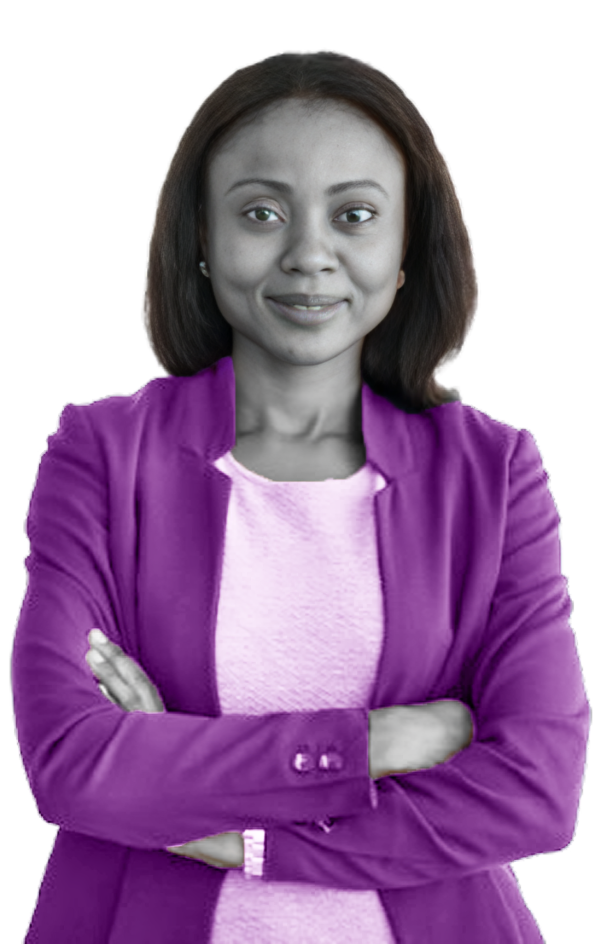
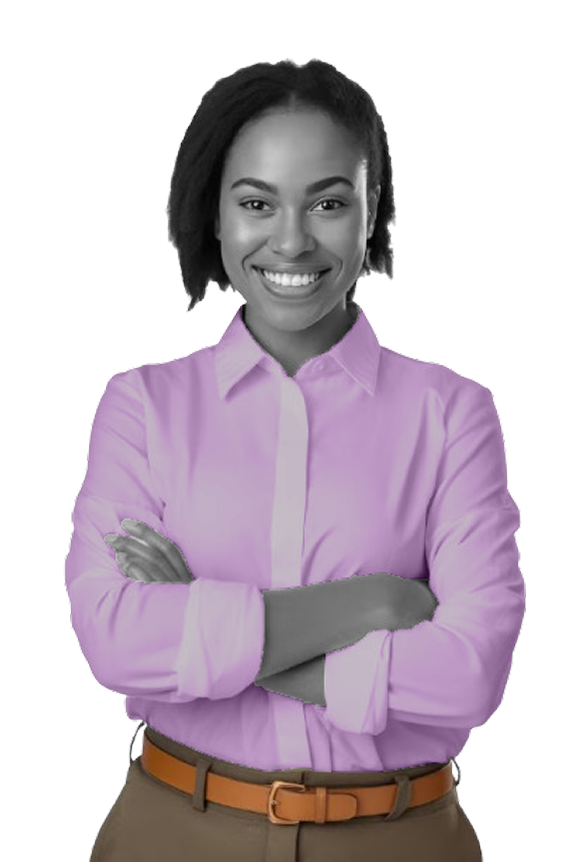
add testemunhals

diff --git a/web/Onda_branca/src/app/layout/services/services.html b/web/Onda_branca/src/app/layout/services/services.html
@@ -5,94 +5,33 @@
     </div>
 </div>
 
-<div class="uk-container uk-margin-large-bottom">
+<div class="uk-container ">
     <div uk-slider="autoplay: true" class=" uk-position-relative uk-visible-toggle uk-darklight" tabindex="-1">
         <div class="uk-slider-container uk-padding-medium">
-            <div class="uk-slider-items uk-child-width-1-5@l uk-child-width-1-3@s ">
-                <div>
+            <div class="uk-slider-items uk-child-width-1-5@l uk-grid-match uk-child-width-1-3@s ">
+                <div *ngFor="let service of serv">
                     <div class="uk-child-width-1-2@l uk-flex uk-grid-match uk-grid-small uk-padding-small" style="border: solid rgba(148, 148, 148, 0.388) 1px; border-radius: 20px; padding-left: 0; padding-right: 0; margin-right: 20px !important;">
                         <div>
-                            <img src="imagens/p7.png" alt="p7" style="border-radius: 10px;">
+                            <img [src]="service.image.url" [alt]="service.name" style="border-radius: 10px;">
                         </div>
                         <div>
                             <a href="" style="color: #094268;">
-                                <span style="font-size: 12px; font-weight: 400;">Treinamento</span><br>
-                                <span class="texto-com-reticencias">{{ curso }}</span>
+                                <span style="font-size: 12px; font-weight: 400;" class="type">{{ service.type }}</span><br>
+                                <span class="texto-com-reticencias">{{ service.name }}</span>
                             </a>
                         </div>
                     </div>
                 </div>
-                <div>
-                    <div class="uk-child-width-1-2@l uk-flex uk-grid-match uk-grid-small uk-padding-small" style="border: solid rgba(148, 148, 148, 0.388) 1px; border-radius: 20px; padding-left: 0; padding-right: 0; margin-right: 20px !important;">
-                        <div>
-                            <img src="imagens/p7.png" alt="p7" style="border-radius: 10px;">
-                        </div>
-                        <div>
-                            <a href="" style="color: #094268;">
-                                <span style="font-size: 12px; font-weight: 400;">Treinamento</span><br>
-                                <span class="texto-com-reticencias">{{ curso }}</span>
-                            </a>
-                        </div>
-                    </div>
-                </div>
-                <div>
-                    <div class="uk-child-width-1-2@l uk-flex uk-grid-match uk-grid-small uk-padding-small" style="border: solid rgba(148, 148, 148, 0.388) 1px; border-radius: 20px; padding-left: 0; padding-right: 0; margin-right: 20px !important;">
-                        <div>
-                            <img src="imagens/p7.png" alt="p7" style="border-radius: 10px;">
-                        </div>
-                        <div>
-                            <a href="" style="color: #094268;">
-                                <span style="font-size: 12px; font-weight: 400;">Treinamento</span><br>
-                                <span class="texto-com-reticencias">{{ curso }}</span>
-                            </a>
-                        </div>
-                    </div>
-                </div>
-                <div>
-                    <div class="uk-child-width-1-2@l uk-flex uk-grid-match uk-grid-small uk-padding-small" style="border: solid rgba(148, 148, 148, 0.388) 1px; border-radius: 20px; padding-left: 0; padding-right: 0; margin-right: 20px !important;">
-                        <div>
-                            <img src="imagens/p7.png" alt="p7" style="border-radius: 10px;">
-                        </div>
-                        <div>
-                            <a href="" style="color: #094268;">
-                                <span style="font-size: 12px; font-weight: 400;">Treinamento</span><br>
-                                <span class="texto-com-reticencias">{{ curso }}</span>
-                            </a>
-                        </div>
-                    </div>
-                </div>
-                <div>
-                    <div class="uk-child-width-1-2@l uk-flex uk-grid-match uk-grid-small uk-padding-small" style="border: solid rgba(148, 148, 148, 0.388) 1px; border-radius: 20px; padding-left: 0; padding-right: 0; margin-right: 20px !important;">
-                        <div>
-                            <img src="imagens/p7.png" alt="p7" style="border-radius: 10px;">
-                        </div>
-                        <div>
-                            <a href="" style="color: #094268;">
-                                <span style="font-size: 12px; font-weight: 400;">Treinamento</span><br>
-                                <span class="texto-com-reticencias">{{ curso }}</span>
-                            </a>
-                        </div>
-                    </div>
-                </div>
-                <div>
-                    <div class="uk-child-width-1-2@l uk-flex uk-grid-match uk-grid-small uk-padding-small" style="border: solid rgba(148, 148, 148, 0.388) 1px; border-radius: 20px; padding-left: 0; padding-right: 0; margin-right: 20px !important;">
-                        <div>
-                            <img src="imagens/p7.png" alt="p7" style="border-radius: 10px;">
-                        </div>
-                        <div>
-                            <a href="" style="columns: #094268;">
-                                <span style="font-size: 12px; font-weight: 400;">Treinamento</span><br>
-                                <span class="texto-com-reticencias">{{ curso }}</span>
-                            </a>
-                        </div>
-                    </div>
-                </div>
-
             </div>
-            <div >
-                <a class="uk-position-center-left-out uk-position-small" href uk-slidenav-previous uk-slider-item="previous"></a>
-                <a class="uk-position-center-right-out uk-position-small" style="color: #072132;" href uk-slidenav-next uk-slider-item="next"></a>
-            </div>
+            <div class="uk-visible@m">
+                        <a class="uk-position-center-left-out uk-position-small" href uk-slidenav-previous uk-slider-item="previous"></a>
+                        <a class="uk-position-center-right-out uk-position-small" style="color: #072132;" href uk-slidenav-next uk-slider-item="next"></a>
+                    </div>
+                    
+                    <div class="uk-hidden@m">
+                        <a class="uk-position-center-left uk-position-small" href uk-slidenav-previous uk-slider-item="previous"></a>
+                        <a class="uk-position-center-right uk-position-small" style="color: #072132;" href uk-slidenav-next uk-slider-item="next"></a>
+                    </div>
         </div>
     </div>
 </div>

diff --git a/web/Onda_branca/src/app/layout/testemunhos/testemunhos.html b/web/Onda_branca/src/app/layout/testemunhos/testemunhos.html
@@ -1,1 +1,40 @@
-<p>testemunhos works!</p>
+<div class="uk-container uk-margin-medium-top">
+
+    <!--Testmunhos-->
+    <div class="uk-margin-large-bottom">
+        <div class="uk-child-width-1-2@l uk-grid">
+            <div class="uk-width-auto@l" style="width: 420px;">
+                <h2 style="font-size: 30px; color: #00A6FB; font-weight: bold; margin: 0;" class="title uk-margin-small-bottom">Em suas próprias palavras</h2>
+                <p style="font-size: 16px; color: #094268;" class="destaque">Ouça depoimentos de pessoas e organizações <br> que  se transformaram com nossa ajuda</p>
+            </div>
+            <div class="uk-width-expand@l">
+                <div uk-slider class=" uk-position-relative uk-visible-toggle uk-darklight" tabindex="-1">
+                    <div class="uk-slider-container uk-padding-small ">
+                        <div class="uk-slider-items uk-child-width-1-2@l uk-child-width-1-2@s uk-grid-large">
+                            <div *ngFor="let teacher of teachers" class="uk-padding-remove-left">
+                                <div class="uk-child-width-1-2@l uk-flex uk-grid-match" style=" border-radius: 20px; box-sizing: border-box; overflow: hidden; border: solid #c7c7c7 1px; margin-right: 10px; width: 350px;">
+                                    <div >
+                                        <img [src]="teacher.image.url"  alt="Teacher photo">
+                                    </div>
+                                    <div class="uk-card uk-padding-small">
+                                            <h3  style="font-size: 12px; font-weight: bold; color: #094268;" class="uk-margin-remove">{{teacher.first_name}} {{teacher.last_name}}</h3>
+                                            <span style="font-size: 0.75rem; color: #094268;" class="uk-margin-small-bottom">{{teacher.position}}</span>
+                                            <p class="uk-margin-remove" style="font-size: 10px;"><span style="font-size: 30px; color: #094268; position: absolute; top: 48px; left: 1px;">"</span> Lorem ipsum dolor sit amet consectetur adipisicing elit. Sapiente omnis ex beatae corrupti deserunt accusamus deleniti <span style="font-size: 30px; color: #094268; position: absolute; bottom: 5px; right: 20px;">"</span></p>
+                                    </div>
+                                </div>
+                            </div>
+                        </div>
+                        <div class="uk-visible@m">
+                            <a class="uk-position-center-left-out uk-position-small" href uk-slidenav-previous uk-slider-item="previous"></a>
+                            <a class="uk-position-center-right-out uk-position-small" style="color: #072132;" href uk-slidenav-next uk-slider-item="next"></a>
+                        </div>
+                    
+                        <div class="uk-hidden@m">
+                            <a class="uk-position-center-left uk-position-small" href uk-slidenav-previous uk-slider-item="previous"></a>
+                            <a class="uk-position-center-right uk-position-small" style="color: #072132;" href uk-slidenav-next uk-slider-item="next"></a>
+                        </div>
+                    </div>
+                </div>
+            </div>
+        </div>
+</div>

diff --git a/web/Onda_branca/src/app/layout/about/about.html b/web/Onda_branca/src/app/layout/about/about.html
@@ -25,16 +25,16 @@
             <div class="uk-width-expand@l">
                 <div uk-slider="autoplay: true" class=" uk-position-relative uk-visible-toggle uk-darklight" tabindex="-1">
                     <div class="uk-slider-container uk-padding-small ">
-                        <div class="uk-slider-items uk-child-width-1-3@l uk-child-width-1-2@m uk-child-width-1-1@s uk-grid-small">
+                        <div class="uk-slider-items uk-child-width-1-3@l uk-child-width-1-3@s uk-grid-small">
                         <div *ngFor="let teacher of teachers">
-                            <div class="uk-child-width-1-2 uk-flex" style="border-radius: 20px; border: solid #c7c7c7 1px;">
+                            <div class="uk-child-width-1-2@l uk-flex uk-grid-match uk-grid-small" style=" border-radius: 20px; box-sizing: border-box; overflow: hidden; border: solid #c7c7c7 1px; margin-right: 10px;">
                                 <div>
-                                    <img [src]="teacher.image.url" alt="Teacher photo">
+                                    <img [src]="teacher.image.url"  alt="Teacher photo">
                                 </div>
                                 <div>
                                     <div class="uk-margin-small-top">
-                                        <h3 style="font-size: 12px; font-weight: bold; color: #00A6FB;" class="uk-margin-small-bottom">{{teacher.first_name}} {{teacher.last_name}}</h3>
-                                        <span style="font-size: 12px; color: #0E4363;">{{teacher.position}}</span>
+                                        <h3 style="font-size: 12px; font-weight: bold; color: #094268;" class="uk-margin-small-bottom">{{teacher.first_name}} {{teacher.last_name}}</h3>
+                                        <span style="font-size: 0.75rem; color: #094268;">{{teacher.position}}</span>
                                     </div>
                                 </div>
                             </div>
@@ -49,7 +49,7 @@
                         <a class="uk-position-center-left uk-position-small" href uk-slidenav-previous uk-slider-item="previous"></a>
                         <a class="uk-position-center-right uk-position-small" style="color: #072132;" href uk-slidenav-next uk-slider-item="next"></a>
                     </div>
-                    </div>
+                </div>
                 </div>
                 
             </div>

diff --git a/web/Onda_branca/src/app/layout/testemunhos/testemunhos.ts b/web/Onda_branca/src/app/layout/testemunhos/testemunhos.ts
@@ -1,11 +1,30 @@
+import { CommonModule } from '@angular/common';
 import { Component } from '@angular/core';
+import { Teacher } from '../../services/teacher';
+import { Teachers } from '../../interfaces';
 
 @Component({
   selector: 'app-testemunhos',
-  imports: [],
+  imports: [CommonModule],
   templateUrl: './testemunhos.html',
   styleUrl: './testemunhos.css'
 })
 export class Testemunhos {
-
+  teachers: Teachers[] = []
+  
+    constructor(private teacherServices: Teacher){}
+  
+    ngOnInit(): void {
+      //Called after the constructor, initializing input properties, and the first call to ngOnChanges.
+      //Add 'implements OnInit' to the class.
+  
+      this.teacherServices.getAllTeachers().subscribe({
+        next: (res) => {
+          this.teachers = res;
+        },
+        error: (err) =>{
+          console.error(err)
+        }
+      })
+    }
 }

diff --git a/web/Onda_branca/src/app/layout/services/services.css b/web/Onda_branca/src/app/layout/services/services.css
@@ -9,12 +9,30 @@
   word-break: break-word; /* Quebra palavras longas */
   max-width: 100%; /* Garante que respeite o container pai */
   line-height: 1.2; /* Ajuste o espaçamento entre linhas */
-  font-size: 18px;
+  font-size: 16px;
   font-weight: 600;
 }
+
+.uk-slidenav-previous,
+.uk-slidenav-next {
+  z-index: 1000;
+  color: #072132 !important; /* ou #fff para fundo escuro */
+}
+
+.uk-position-center-left-out, .uk-position-center-right-out {
+    color: #9A74A1 !important;
+}
+
 @media (max-width: 760px) {
   .uk-grid > div {
     padding: 10px;
     width: 100%;
+  }
+
+  .type{
+    font-size: 1rem !important;
+  }
+  .texto-com-reticencias{
+    font-size: 1.5rem !important;
   }
 }

diff --git a/web/Onda_branca/src/app/layout/services/services.ts b/web/Onda_branca/src/app/layout/services/services.ts
@@ -1,11 +1,27 @@
 import { Component } from '@angular/core';
+import { Service } from '../../interfaces';
+import { Servicos } from '../../services/servicos';
+import { CommonModule } from '@angular/common';
 
 @Component({
   selector: 'app-services',
-  imports: [],
+  imports: [CommonModule],
   templateUrl: './services.html',
   styleUrl: './services.css'
 })
 export class Services {
-  curso = "Treinamento p7 "
+ serv : Service[] = []
+ 
+ constructor(private ser: Servicos ){}
+
+ ngOnInit(): void {
+  this.ser.getAllServices().subscribe({
+      next: (res) => {
+        this.serv = res;
+      },
+      error: (err) =>{
+        console.error(err)
+      }
+    })
+ }
 }

diff --git a/web/Onda_branca/src/app/services/servicos.ts b/web/Onda_branca/src/app/services/servicos.ts
@@ -1,0 +1,20 @@
+import { HttpClient } from '@angular/common/http';
+import { Injectable } from '@angular/core';
+import { map, Observable } from 'rxjs';
+
+import { Service } from '../interfaces';
+
+@Injectable({
+  providedIn: 'root'
+})
+export class Servicos {
+  private urls = "http://localhost:8080/v1/services/get_all_services"
+
+  constructor(private http: HttpClient) { }
+
+  getAllServices(): Observable<Service[]> {
+    return this.http.get<{ data : Service[] }>(this.urls).pipe(
+      map(res => res.data)
+    );
+  }
+}

diff --git a/web/Onda_branca/src/app/layout/about/about.css b/web/Onda_branca/src/app/layout/about/about.css
@@ -19,22 +19,8 @@ button:hover{
 
 
 @media (max-width: 768px) {
-  .uk-slider-items {
-    padding-left: 1rem;
-    padding-right: 1rem;
-  }
-
   .title{
     margin-top: 10px !important;
-  }
-
-  .uk-slider-items > div {
-    text-align: center;
-    display: block;
-  }
-
-  .uk-slider-items img {
-    margin: 0 auto;
   }
 
   .destaque{
@@ -42,5 +28,12 @@ button:hover{
   }
   .title{
     font-size: 23px !important;
+  }
+
+  span{
+    font-size: 1rem !important;
+  }
+  h3{
+    font-size: 1.5rem !important;
   }
 }

diff --git a/web/Onda_branca/src/app/interfaces.ts b/web/Onda_branca/src/app/interfaces.ts
@@ -1,0 +1,25 @@
+export interface Teachers {
+  id: number;
+  first_name: string;
+  last_name: string;
+  position: string;
+  image: {
+    url: string;
+  };
+  created_at: string;
+  updated_at: string;
+}
+
+export interface Service {
+  id: number;
+  type: string;
+  name: string;
+  image: {
+    url: string;
+  };
+  modules?: string[];  // Opcional devido ao omitempty
+  start?: string;      // Opcional
+  end?: string;        // Opcional
+  created_at: string;
+  updated_at: string;
+}

diff --git a/web/Onda_branca/src/app/components/home/home.ts b/web/Onda_branca/src/app/components/home/home.ts
@@ -3,10 +3,11 @@ import { Navbar } from "../navbar/navbar";
 import { Slides } from "../slides/slides";
 import { About } from "../../layout/about/about";
 import { Services } from "../../layout/services/services";
+import { Testemunhos } from "../../layout/testemunhos/testemunhos";
 
 @Component({
   selector: 'app-home',
-  imports: [Navbar, Slides, About, Services],
+  imports: [Navbar, Slides, About, Services, Testemunhos],
   templateUrl: './home.html',
   styleUrl: './home.css'
 })

diff --git a/web/Onda_branca/src/app/components/slides/slides.html b/web/Onda_branca/src/app/components/slides/slides.html
@@ -12,7 +12,7 @@
               </div>
             </div>
           <div>
-            <img src="imagens/mulher_capa.webp" class="uk-align-center" alt="capa feminina" uk-scrollspy="cls: uk-animation-slide-right; delay:150; repeat: true">
+            <img src="imagens/mulher_capa.png" class="uk-align-center" alt="capa feminina" uk-scrollspy="cls: uk-animation-slide-right; delay:150; repeat: true">
           </div>
         </div>
      </div>

diff --git a/web/Onda_branca/src/app/services/servicos.spec.ts b/web/Onda_branca/src/app/services/servicos.spec.ts
@@ -1,0 +1,16 @@
+import { TestBed } from '@angular/core/testing';
+
+import { Servicos } from './servicos';
+
+describe('Servicos', () => {
+  let service: Servicos;
+
+  beforeEach(() => {
+    TestBed.configureTestingModule({});
+    service = TestBed.inject(Servicos);
+  });
+
+  it('should be created', () => {
+    expect(service).toBeTruthy();
+  });
+});
